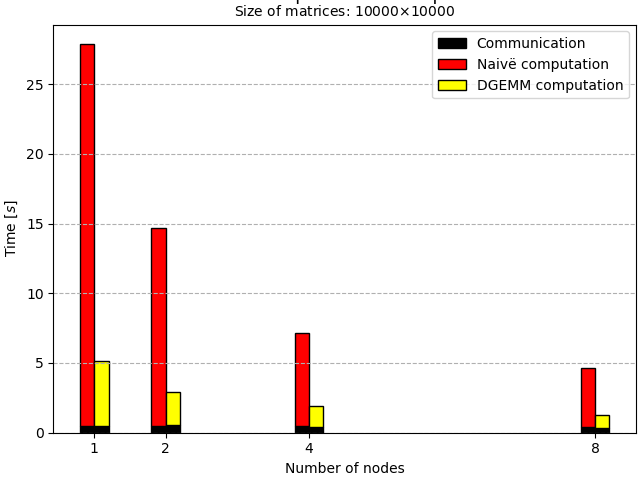
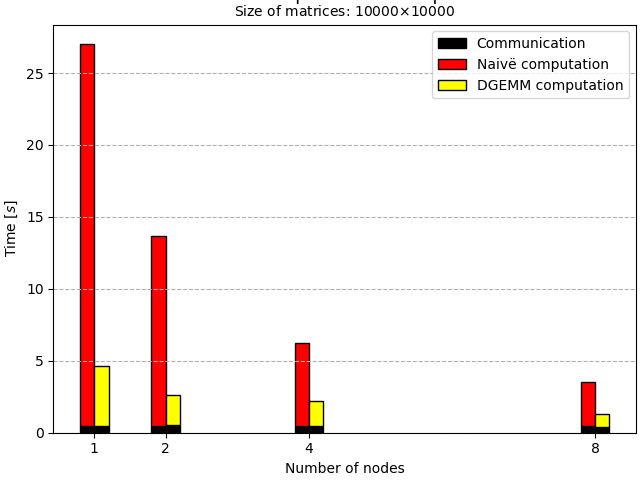
Updated plots

diff --git a/analysis/bar_plot.py b/analysis/bar_plot.py
@@ -11,7 +11,7 @@ with open('data/times.txt') as f:
     data = [[num(x) for x in line.split()[1:]] for line in f.readlines()]
 
 nodes = 4
-section = 3
+section = 11
 naive = data[nodes * (section - 1):nodes * section]
 dgemm = data[nodes * section:nodes * (section + 1)]
 processors = array([n for _, n, *_ in naive]) // 32
